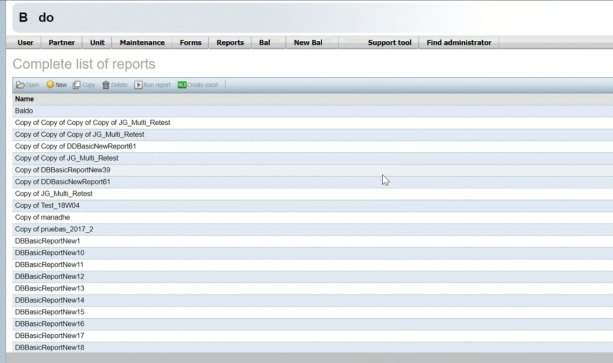
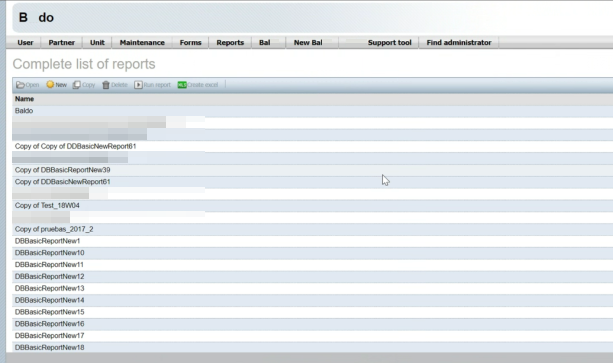
fix(work): Volvo - zamazane nazwy raportow, ktore moga byc inicjalami

diff --git a/site/src/content/volvo.ts b/site/src/content/volvo.ts
@@ -123,7 +123,7 @@ export const volvo: CaseStudy = {
             {
               src: `${S}/reports-before.png`,
               caption:
-                "The legacy report list: every report in one column, including names like “Copy of Copy of Copy of Copy of JG_Multi_Retest”, with the actions in a small toolbar above it.",
+                "The legacy report list: every report in one column, including names like “Copy of Copy of DDBasicNewReport61”, with the actions in a small toolbar above it.",
             },
             {
               src: `${S}/report-loading-before.png`,
